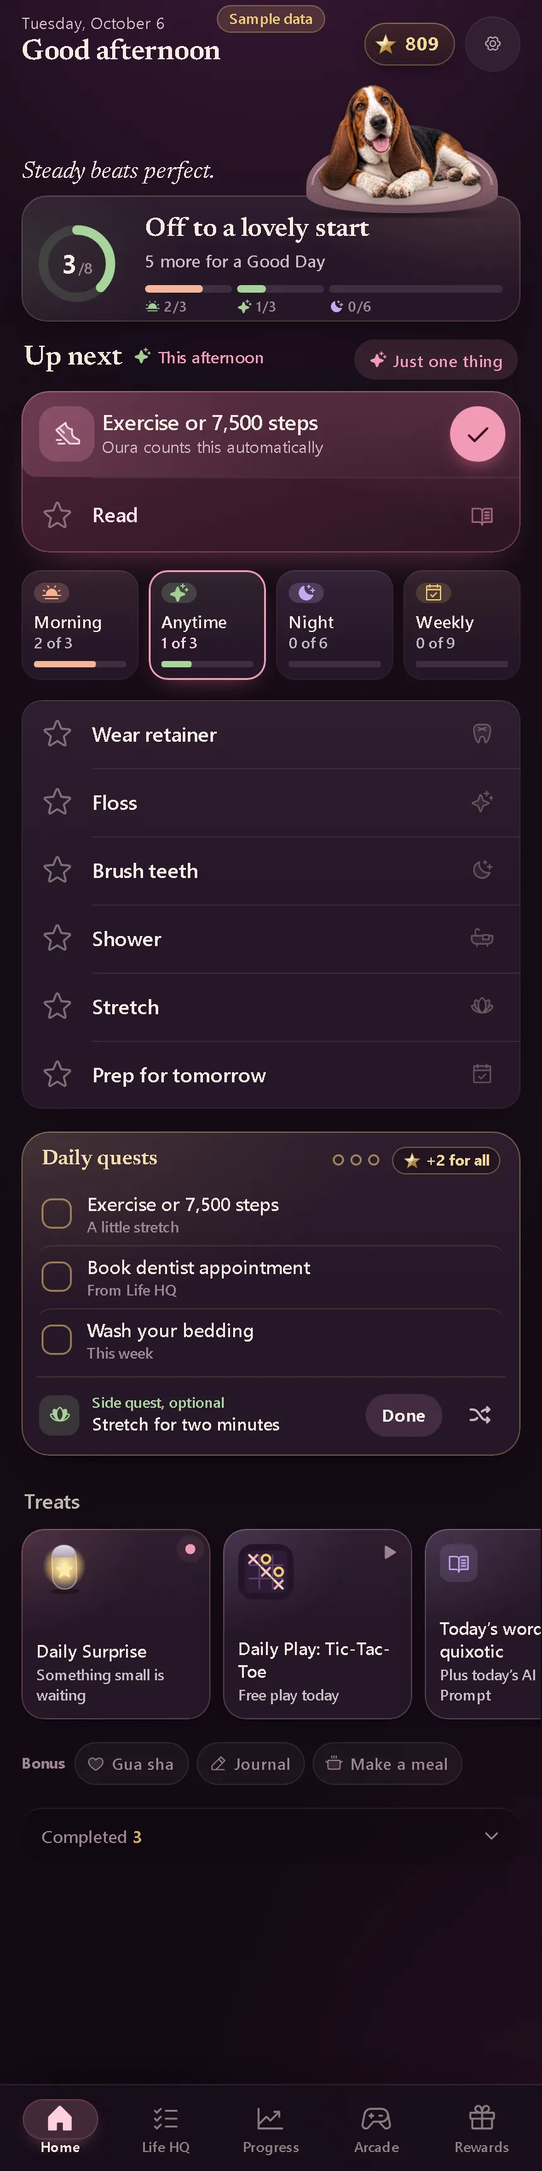
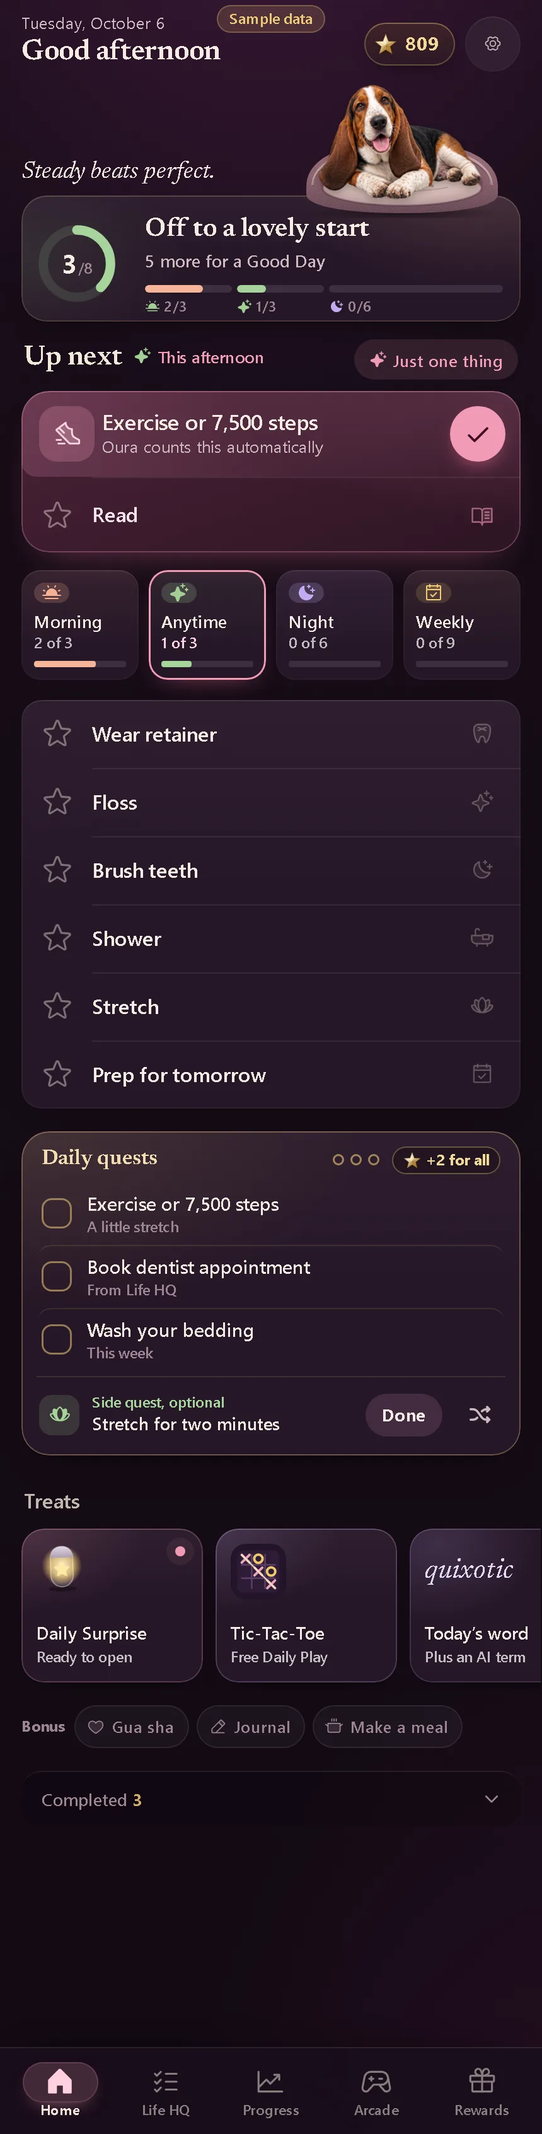
Demo snapshot from starcade@c075166

diff --git a/index.html b/index.html
@@ -8081,6 +8081,36 @@ html.ds-shell #nav .ds-tab span{transition:color .2s}
 #boost .ln-ai{background:rgb(255 255 255 / .018)!important;background-image:none!important;box-shadow:inset 0 0 0 1px rgb(var(--ds-lav-rgb) / .16)!important;padding:13px 16px 14px!important}
 #boost .ln-ai :is(h3,.ln-ai-term,b.ln-term){font-size:19px!important}
 #stats .pg-next-medal use[href="#ds-i-star-fill"]{--st-glint:1}
+
+/* ============ Pass 65: the treats shelf. One anatomy for every treat ============
+   A 48px art zone on top (the object), then one line of title and one line of status, in a fixed 122px card, so no
+   card is hollow because a neighbour is wordy. The only corner mark is the rose "ready" dot; carets and play
+   triangles are gone (the whole card is the button). Price chips and "x to go" stay: they're information. */
+#today .td-rail{align-items:flex-start!important}
+#today .td-rail .td-foryou>.tb-row,#today .td-rail .td-foryou>.td-surprise,#today .td-treat{width:144px!important;height:122px!important;min-height:0!important;padding:12px 12px 11px!important;justify-content:flex-start!important;gap:0!important}
+/* the art zone */
+#today .td-rail .td-foryou :is(.ds-glyph,.td-cover,.sp-art,.tr-wordart),#today .td-treat :is(.tr-ic,.tr-mini){flex:none;margin:0 0 auto 0!important}
+#today .td-rail .td-foryou .ds-glyph,#today .td-treat .tr-ic{width:44px!important;height:44px!important;border-radius:13px!important}
+#today .td-rail .td-foryou .ds-glyph .ds-ic,#today .td-treat .tr-ic .ds-ic{width:22px!important;height:22px!important}
+#today .td-rail .td-foryou .td-cover{width:44px!important;height:44px!important;border-radius:12px!important}
+#today .td-rail .td-foryou .td-surprise .sp-art{width:48px!important;height:48px!important;margin:-4px 0 auto -4px!important}
+#today .td-treat.tr-bingo .tr-mini{zoom:.66;margin:2px 0 auto 2px!important}
+/* the word is its own object: set in the display serif on a lavender-tinted card */
+#today .td-rail .tr-wordart{display:block;max-width:100%;height:44px;font:italic 500 22px/44px var(--sc-display);color:#E4DAFA;letter-spacing:.005em;white-space:nowrap;overflow:hidden;text-overflow:ellipsis}
+#today .td-rail .td-foryou>.tr-word{background:radial-gradient(90% 80% at 15% 10%,rgb(var(--ds-lav-rgb) / .16),transparent 62%),var(--ds-surface)!important;box-shadow:var(--ds-hi),inset 0 0 0 1px rgb(var(--ds-lav-rgb) / .14),var(--ds-card-shadow)!important}
+/* one line of title, one line of status */
+#today .td-rail .td-foryou .ds-row-main{gap:1px!important}
+#today .td-rail .td-foryou .ds-row-title,#today .td-treat b{display:block;max-width:100%;white-space:nowrap!important;overflow:hidden;text-overflow:ellipsis;font:600 14px/1.3 var(--ds-font)!important}
+#today .td-rail .td-foryou .ds-row-sub,#today .td-treat small{display:block;max-width:100%;white-space:nowrap!important;overflow:hidden;text-overflow:ellipsis;font:500 12px/1.35 var(--ds-font)!important}
+#today .td-rail .td-foryou .td-meter{margin-top:6px!important}
+/* corner marks: only the ready dot */
+#today .td-rail .td-foryou .tb-caret{display:none!important}
+#today .td-rail .td-foryou .sp-dot{top:14px!important;right:14px!important}
+/* "You're all set" contradicts a shelf that still has treats (Bingo, tokens) and was squeezed into a narrow column;
+   it shows only when the shelf is truly empty, as one full-width quiet line */
+#today .td-rail .td-allset{display:none}
+#today .td-rail:not(:has(.td-treat,.tb-row)) .td-allset{display:block;flex:1 0 100%;align-self:flex-start;white-space:normal;margin:2px 0 0}
+#today .td-rail .tr-wordart.is-long{font-size:18.5px}
 </style>
 <script id="starcade-screens">
 /* Starcade screens, pass 10: Today and Arcade (Play + Learn), built from the starcade-ds components.
@@ -9843,7 +9873,7 @@ html.ds-shell #nav .ds-tab span{transition:color .2s}
   function surpriseRow() {
     if (!surpriseReady()) return '';
     const o = surpriseObjectFor(today());
-    return `<button type="button" class="ds-row tb-row td-surprise sp-${o}" onclick="tdSurpriseOpen()" aria-label="Daily Surprise. Tap to open."><span class="sp-art">${SURPRISE_OBJECTS[o]()}</span><span class="ds-row-main"><span class="ds-row-title">Daily Surprise</span><span class="ds-row-sub">Something small is waiting</span></span><span class="sp-dot" aria-hidden="true"></span></button>`;
+    return `<button type="button" class="ds-row tb-row td-surprise sp-${o}" onclick="tdSurpriseOpen()" aria-label="Daily Surprise. Tap to open."><span class="sp-art">${SURPRISE_OBJECTS[o]()}</span><span class="ds-row-main"><span class="ds-row-title">Daily Surprise</span><span class="ds-row-sub">Ready to open</span></span><span class="sp-dot" aria-hidden="true"></span></button>`;
   }
   window.tdSurpriseOpen = function () {
     if (!surpriseReady()) return;
@@ -9990,7 +10020,7 @@ html.ds-shell #nav .ds-tab span{transition:color .2s}
     const row = (glyph, title, sub, onclick, end = ic('caret-right-bold', 'tb-caret'), extra = '') => `<button type="button" class="ds-row tb-row ${extra}" onclick="${onclick}">${glyph}<span class="ds-row-main"><span class="ds-row-title">${title}</span>${sub}</span>${end}</button>`;
     const subline = t => `<span class="ds-row-sub">${t}</span>`;
     add(surpriseRow());
-    try { const d = dailyPick(); if (!dailyClaimed()) add(row(`<span class="td-cover">${cover(d)}</span>`, `Daily Play: ${esc(d.name)}`, subline('Free play today'), `arPlay('${d.id}',true)`, ic('play-fill', 'tb-caret'))); } catch (e) {}
+    try { const d = dailyPick(); if (!dailyClaimed()) add(row(`<span class="td-cover">${cover(d)}</span>`, esc(d.name), subline('Free Daily Play'), `arPlay('${d.id}',true)`, '', 'tr-play')); } catch (e) {}
     let bal = 0, tgt = null, rs = [];
     try { bal = balance(); rs = state.rewards.filter(r => !r.retired && r.cost > 0).sort((a, b) => a.cost - b.cost); tgt = window.__starcadeRewardTarget ? window.__starcadeRewardTarget() : null; } catch (e) {}
     // the reward she chose to save toward: ready, or how far
@@ -10002,7 +10032,8 @@ html.ds-shell #nav .ds-tab span{transition:color .2s}
     } catch (e) {}
     try { // today's Learn, until the Daily Word is checked
       if (!((SC().wordDone || {})[today()])) { const w = wordForToday(), t = typeof aiTermForToday === 'function' ? aiTermForToday() : null;
-        add(row(`<span class="ds-glyph ds-glyph-lav">${ic('book-open-text-duotone')}</span>`, `Today’s word: ${esc(w.w)}`, subline(t ? `Plus today’s AI term: ${esc(t.w)}` : 'Learn · about a minute'), "starcadeNavigate('boost');setTimeout(()=>arTabSet('learn'),40)")); }
+        // pass 65: the word itself, set in the display serif, is the treat's object (not a generic book icon)
+        add(row(`<span class="tr-wordart${w.w.length > 11 ? ' is-long' : ''}" aria-hidden="true">${esc(w.w)}</span>`, 'Today’s word', subline(t ? 'Plus an AI term' : 'About a minute'), "starcadeNavigate('boost');setTimeout(()=>arTabSet('learn'),40)", '', 'tr-word')); }
     } catch (e) {}
     try { // runs this week, only once runs are part of her history
       const hist = typeof v8RunHistory === 'function' ? v8RunHistory() : [], wk = typeof fitnessWeek === 'function' ? fitnessWeek().length : 0;
@@ -11633,7 +11664,12 @@ html.ds-shell #nav .ds-tab span{transition:color .2s}
       const mini = `<span class="tr-mini" aria-hidden="true">${B.marks.map((m, i) => `<i class="${i === 12 ? 'free' : m.done ? 'on' : ''}${i === rec.gold ? ' gold' : ''}"></i>`).join('')}</span>`;
       extra.push(`<button type="button" class="td-treat tr-bingo" onclick="v7OpenBingo()">${mini}<b>Weekly Bingo</b><small>${B.count} of 25${n ? `, ${n} line${n === 1 ? '' : 's'}` : ''}</small></button>`);
     } catch (e) {}
-    if (SC2.tokensOn()) { const t = SC2.tokenBalance(); extra.push(`<button type="button" class="td-treat tr-tokens" onclick="starcadeNavigate('boost')"><span class="tr-ic">${ic('ticket-fill')}</span><b>${t} Arcade token${t === 1 ? '' : 's'}</b><small>${esc(SC2.nextTokenHint().replace(/\.$/, ''))}</small></button>`); }
+    if (SC2.tokensOn()) {
+      // pass 65: one line of status ("3 more habits today earns a token" becomes "Next in 3 habits")
+      const t = SC2.tokenBalance(), hint = SC2.nextTokenHint(), m = /^(\d+) more habit/.exec(hint);
+      const sub = m ? `Next in ${m[1]} habit${m[1] === '1' ? '' : 's'}` : 'A Good Day adds one';
+      extra.push(`<button type="button" class="td-treat tr-tokens" onclick="starcadeNavigate('boost')" aria-label="${t} Arcade token${t === 1 ? '' : 's'}. ${esc(hint)}"><span class="tr-ic">${ic('ticket-fill')}</span><b>${t} token${t === 1 ? '' : 's'}</b><small>${esc(sub)}</small></button>`);
+    }
     const inner = fy.replace(/<div class="ds-section td-sec">[\s\S]*?<\/div>/, ''); // the old header (title + Inbox link) is replaced by the rail's own
     return `<div class="ds-section td-sec"><span>Treats</span></div><div class="td-rail">${inner}${extra.join('')}</div>`;
   }

diff --git a/review/index.html b/review/index.html
@@ -4,7 +4,7 @@ ul.grid{list-style:none;padding:0;display:grid;grid-template-columns:repeat(auto
 ul.grid img{display:block;width:100%;height:auto;aspect-ratio:430/932;object-fit:cover;object-position:top;border-radius:10px;background:#261727}
 figure{margin:0}figure img{display:block;max-width:430px;width:100%;height:auto;border-radius:12px;background:#261727}pre{white-space:pre-wrap;background:#261727;padding:12px 14px;border-radius:10px;color:#CFB9C1;font:14px/1.45 system-ui,sans-serif}
 nav.pn{display:flex;justify-content:space-between;gap:12px;margin:14px 0}dl{display:grid;grid-template-columns:max-content 1fr;gap:4px 14px;margin:0 0 16px;color:#CFB9C1}dt{color:#9C8492}</style></head><body><main><h1>Starcade demo · visual review</h1>
-<p class="meta">Read-only, pre-rendered snapshots of every major screen and state of Starcade, generated automatically from the live demo build with sample data only (no real user data). Viewport 430×932 (large iPhone), device scale 2. 65 screens and states. Generated 2026-10-07 02:44 UTC. This page needs no JavaScript. The interactive demo itself is at <a href="../">the demo home</a>.</p>
+<p class="meta">Read-only, pre-rendered snapshots of every major screen and state of Starcade, generated automatically from the live demo build with sample data only (no real user data). Viewport 430×932 (large iPhone), device scale 2. 65 screens and states. Generated 2026-10-07 03:37 UTC. This page needs no JavaScript. The interactive demo itself is at <a href="../">the demo home</a>.</p>
 <p>Overview of everything at once: <a href="img/00-contact-sheet.webp">contact sheet image</a>.</p>
 <p><img src="img/00-contact-sheet.webp" alt="Contact sheet: the first screen of all 65 Starcade screens and states side by side" style="max-width:100%;height:auto;border-radius:10px"></p>
 <h2>Home</h2><ul class="grid"><li><a href="01-home.html"><img src="img/01-home.webp" alt="Home · Today (afternoon, Dexter relaxed in his bed)" loading="lazy" width="430" height="932"><span>Home · Today (afternoon, Dexter relaxed in his bed)</span></a></li><li><a href="02-home-routine-pill-open.html"><img src="img/02-home-routine-pill-open.webp" alt="Home · a routine pill opened in place (Night)" loading="lazy" width="430" height="932"><span>Home · a routine pill opened in place (Night)</span></a></li><li><a href="03-home-week-pill-open.html"><img src="img/03-home-week-pill-open.webp" alt="Home · This week pill opened (weekly reset)" loading="lazy" width="430" height="932"><span>Home · This week pill opened (weekly reset)</span></a></li><li><a href="04-home-completed-expanded.html"><img src="img/04-home-completed-expanded.webp" alt="Home · Completed habits expanded" loading="lazy" width="430" height="932"><span>Home · Completed habits expanded</span></a></li><li><a href="05-home-quick-actions.html"><img src="img/05-home-quick-actions.webp" alt="Home · press and hold a habit: quick actions (skip, rest, partly, note)" loading="lazy" width="430" height="932"><span>Home · press and hold a habit: quick actions (skip, rest, partly, note)</span></a></li><li><a href="06-home-just-one-thing.html"><img src="img/06-home-just-one-thing.webp" alt="Home · Just one thing (pick for me)" loading="lazy" width="430" height="932"><span>Home · Just one thing (pick for me)</span></a></li><li><a href="07-daily-surprise-closed.html"><img src="img/07-daily-surprise-closed.webp" alt="Daily Surprise · the gift before opening" loading="lazy" width="430" height="932"><span>Daily Surprise · the gift before opening</span></a></li><li><a href="08-daily-surprise-opened.html"><img src="img/08-daily-surprise-opened.webp" alt="Daily Surprise · revealed" loading="lazy" width="430" height="932"><span>Daily Surprise · revealed</span></a></li></ul>

diff --git a/review/02-home-routine-pill-open.html b/review/02-home-routine-pill-open.html
@@ -4,9 +4,9 @@ ul.grid{list-style:none;padding:0;display:grid;grid-template-columns:repeat(auto
 ul.grid img{display:block;width:100%;height:auto;aspect-ratio:430/932;object-fit:cover;object-position:top;border-radius:10px;background:#261727}
 figure{margin:0}figure img{display:block;max-width:430px;width:100%;height:auto;border-radius:12px;background:#261727}pre{white-space:pre-wrap;background:#261727;padding:12px 14px;border-radius:10px;color:#CFB9C1;font:14px/1.45 system-ui,sans-serif}
 nav.pn{display:flex;justify-content:space-between;gap:12px;margin:14px 0}dl{display:grid;grid-template-columns:max-content 1fr;gap:4px 14px;margin:0 0 16px;color:#CFB9C1}dt{color:#9C8492}</style></head><body><main><p><a href="index.html">← All screens</a></p><h1>Home · a routine pill opened in place (Night)</h1>
-<dl><dt>Area</dt><dd>Home</dd><dt>Screen 2 of 65</dt><dd>home-routine-pill-open</dd><dt>Capture</dt><dd>full scrolling page (430×1721), demo time 15:00, sample data</dd><dt>Image</dt><dd><a href="img/02-home-routine-pill-open.webp">img/02-home-routine-pill-open.webp</a></dd></dl>
+<dl><dt>Area</dt><dd>Home</dd><dt>Screen 2 of 65</dt><dd>home-routine-pill-open</dd><dt>Capture</dt><dd>full scrolling page (430×1692), demo time 15:00, sample data</dd><dt>Image</dt><dd><a href="img/02-home-routine-pill-open.webp">img/02-home-routine-pill-open.webp</a></dd></dl>
 <nav class="pn"><a href="01-home.html">← Home · Today (afternoon, Dexter relaxed in his bed)</a><a href="03-home-week-pill-open.html">Home · This week pill opened (weekly reset) →</a></nav>
-<figure><img src="img/02-home-routine-pill-open.webp" alt="Screenshot: Home · a routine pill opened in place (Night)" width="430" height="1721"><figcaption class="meta">Home · a routine pill opened in place (Night)</figcaption></figure>
+<figure><img src="img/02-home-routine-pill-open.webp" alt="Screenshot: Home · a routine pill opened in place (Night)" width="430" height="1692"><figcaption class="meta">Home · a routine pill opened in place (Night)</figcaption></figure>
 <h2>Text on this screen</h2><pre>Good afternoon
 Steady beats perfect.
 
@@ -52,15 +52,16 @@ Stretch for two minutes
 Done
 Treats
 Daily Surprise
-Something small is waiting
-Daily Play: Tic-Tac-Toe
-Free play today
-Today’s word: quixotic
-Plus today’s AI term: Prompt
+Ready to open
+Tic-Tac-Toe
+Free Daily Play
+quixotic
+Today’s word
+Plus an AI term
 Weekly Bingo
 3 of 25
-6 Arcade tokens
-3 more habits today earns a token
+6 tokens
+Next in 3 habits
 Bonus
 Gua sha
 Journal

diff --git a/review/04-home-completed-expanded.html b/review/04-home-completed-expanded.html
@@ -4,9 +4,9 @@ ul.grid{list-style:none;padding:0;display:grid;grid-template-columns:repeat(auto
 ul.grid img{display:block;width:100%;height:auto;aspect-ratio:430/932;object-fit:cover;object-position:top;border-radius:10px;background:#261727}
 figure{margin:0}figure img{display:block;max-width:430px;width:100%;height:auto;border-radius:12px;background:#261727}pre{white-space:pre-wrap;background:#261727;padding:12px 14px;border-radius:10px;color:#CFB9C1;font:14px/1.45 system-ui,sans-serif}
 nav.pn{display:flex;justify-content:space-between;gap:12px;margin:14px 0}dl{display:grid;grid-template-columns:max-content 1fr;gap:4px 14px;margin:0 0 16px;color:#CFB9C1}dt{color:#9C8492}</style></head><body><main><p><a href="index.html">← All screens</a></p><h1>Home · Completed habits expanded</h1>
-<dl><dt>Area</dt><dd>Home</dd><dt>Screen 4 of 65</dt><dd>home-completed-expanded</dd><dt>Capture</dt><dd>full scrolling page (430×1505), demo time 15:00, sample data</dd><dt>Image</dt><dd><a href="img/04-home-completed-expanded.webp">img/04-home-completed-expanded.webp</a></dd></dl>
+<dl><dt>Area</dt><dd>Home</dd><dt>Screen 4 of 65</dt><dd>home-completed-expanded</dd><dt>Capture</dt><dd>full scrolling page (430×1476), demo time 15:00, sample data</dd><dt>Image</dt><dd><a href="img/04-home-completed-expanded.webp">img/04-home-completed-expanded.webp</a></dd></dl>
 <nav class="pn"><a href="03-home-week-pill-open.html">← Home · This week pill opened (weekly reset)</a><a href="05-home-quick-actions.html">Home · press and hold a habit: quick actions (skip, rest, partly, note) →</a></nav>
-<figure><img src="img/04-home-completed-expanded.webp" alt="Screenshot: Home · Completed habits expanded" width="430" height="1505"><figcaption class="meta">Home · Completed habits expanded</figcaption></figure>
+<figure><img src="img/04-home-completed-expanded.webp" alt="Screenshot: Home · Completed habits expanded" width="430" height="1476"><figcaption class="meta">Home · Completed habits expanded</figcaption></figure>
 <h2>Text on this screen</h2><pre>Good afternoon
 Steady beats perfect.
 
@@ -46,15 +46,16 @@ Stretch for two minutes
 Done
 Treats
 Daily Surprise
-Something small is waiting
-Daily Play: Tic-Tac-Toe
-Free play today
-Today’s word: quixotic
-Plus today’s AI term: Prompt
+Ready to open
+Tic-Tac-Toe
+Free Daily Play
+quixotic
+Today’s word
+Plus an AI term
 Weekly Bingo
 3 of 25
-6 Arcade tokens
-3 more habits today earns a token
+6 tokens
+Next in 3 habits
 Bonus
 Gua sha
 Journal

diff --git a/review/03-home-week-pill-open.html b/review/03-home-week-pill-open.html
@@ -4,9 +4,9 @@ ul.grid{list-style:none;padding:0;display:grid;grid-template-columns:repeat(auto
 ul.grid img{display:block;width:100%;height:auto;aspect-ratio:430/932;object-fit:cover;object-position:top;border-radius:10px;background:#261727}
 figure{margin:0}figure img{display:block;max-width:430px;width:100%;height:auto;border-radius:12px;background:#261727}pre{white-space:pre-wrap;background:#261727;padding:12px 14px;border-radius:10px;color:#CFB9C1;font:14px/1.45 system-ui,sans-serif}
 nav.pn{display:flex;justify-content:space-between;gap:12px;margin:14px 0}dl{display:grid;grid-template-columns:max-content 1fr;gap:4px 14px;margin:0 0 16px;color:#CFB9C1}dt{color:#9C8492}</style></head><body><main><p><a href="index.html">← All screens</a></p><h1>Home · This week pill opened (weekly reset)</h1>
-<dl><dt>Area</dt><dd>Home</dd><dt>Screen 3 of 65</dt><dd>home-week-pill-open</dd><dt>Capture</dt><dd>full scrolling page (430×1883), demo time 15:00, sample data</dd><dt>Image</dt><dd><a href="img/03-home-week-pill-open.webp">img/03-home-week-pill-open.webp</a></dd></dl>
+<dl><dt>Area</dt><dd>Home</dd><dt>Screen 3 of 65</dt><dd>home-week-pill-open</dd><dt>Capture</dt><dd>full scrolling page (430×1854), demo time 15:00, sample data</dd><dt>Image</dt><dd><a href="img/03-home-week-pill-open.webp">img/03-home-week-pill-open.webp</a></dd></dl>
 <nav class="pn"><a href="02-home-routine-pill-open.html">← Home · a routine pill opened in place (Night)</a><a href="04-home-completed-expanded.html">Home · Completed habits expanded →</a></nav>
-<figure><img src="img/03-home-week-pill-open.webp" alt="Screenshot: Home · This week pill opened (weekly reset)" width="430" height="1883"><figcaption class="meta">Home · This week pill opened (weekly reset)</figcaption></figure>
+<figure><img src="img/03-home-week-pill-open.webp" alt="Screenshot: Home · This week pill opened (weekly reset)" width="430" height="1854"><figcaption class="meta">Home · This week pill opened (weekly reset)</figcaption></figure>
 <h2>Text on this screen</h2><pre>Good afternoon
 Steady beats perfect.
 
@@ -57,15 +57,16 @@ Stretch for two minutes
 Done
 Treats
 Daily Surprise
-Something small is waiting
-Daily Play: Tic-Tac-Toe
-Free play today
-Today’s word: quixotic
-Plus today’s AI term: Prompt
+Ready to open
+Tic-Tac-Toe
+Free Daily Play
+quixotic
+Today’s word
+Plus an AI term
 Weekly Bingo
 3 of 25
-6 Arcade tokens
-3 more habits today earns a token
+6 tokens
+Next in 3 habits
 Bonus
 Gua sha
 Journal

diff --git a/review/15-home-good-day.html b/review/15-home-good-day.html
@@ -4,9 +4,9 @@ ul.grid{list-style:none;padding:0;display:grid;grid-template-columns:repeat(auto
 ul.grid img{display:block;width:100%;height:auto;aspect-ratio:430/932;object-fit:cover;object-position:top;border-radius:10px;background:#261727}
 figure{margin:0}figure img{display:block;max-width:430px;width:100%;height:auto;border-radius:12px;background:#261727}pre{white-space:pre-wrap;background:#261727;padding:12px 14px;border-radius:10px;color:#CFB9C1;font:14px/1.45 system-ui,sans-serif}
 nav.pn{display:flex;justify-content:space-between;gap:12px;margin:14px 0}dl{display:grid;grid-template-columns:max-content 1fr;gap:4px 14px;margin:0 0 16px;color:#CFB9C1}dt{color:#9C8492}</style></head><body><main><p><a href="index.html">← All screens</a></p><h1>Home · Good Day achieved (starlit card)</h1>
-<dl><dt>Area</dt><dd>Good Day</dd><dt>Screen 15 of 65</dt><dd>home-good-day</dd><dt>Capture</dt><dd>full scrolling page (430×1319), demo time 16:00, sample data</dd><dt>Image</dt><dd><a href="img/15-home-good-day.webp">img/15-home-good-day.webp</a></dd></dl>
+<dl><dt>Area</dt><dd>Good Day</dd><dt>Screen 15 of 65</dt><dd>home-good-day</dd><dt>Capture</dt><dd>full scrolling page (430×1290), demo time 16:00, sample data</dd><dt>Image</dt><dd><a href="img/15-home-good-day.webp">img/15-home-good-day.webp</a></dd></dl>
 <nav class="pn"><a href="14-good-day-celebration.html">← Good Day · the celebration moment as the 8th core habit is checked</a><a href="16-progress-goals-empty.html">Progress · Goals (empty state) →</a></nav>
-<figure><img src="img/15-home-good-day.webp" alt="Screenshot: Home · Good Day achieved (starlit card)" width="430" height="1319"><figcaption class="meta">Home · Good Day achieved (starlit card)</figcaption></figure>
+<figure><img src="img/15-home-good-day.webp" alt="Screenshot: Home · Good Day achieved (starlit card)" width="430" height="1290"><figcaption class="meta">Home · Good Day achieved (starlit card)</figcaption></figure>
 <h2>Text on this screen</h2><pre>Good afternoon
 Steady beats perfect.
 
@@ -45,15 +45,16 @@ Stretch for two minutes
 Done
 Treats
 Daily Surprise
-Something small is waiting
-Daily Play: Tic-Tac-Toe
-Free play today
-Today’s word: quixotic
-Plus today’s AI term: Prompt
+Ready to open
+Tic-Tac-Toe
+Free Daily Play
+quixotic
+Today’s word
+Plus an AI term
 Weekly Bingo
 4 of 25
-8 Arcade tokens
-1 more habit today earns a token
+8 tokens
+Next in 1 habit
 Bonus
 Gua sha
 Journal

diff --git a/review/01-home.html b/review/01-home.html
@@ -4,9 +4,9 @@ ul.grid{list-style:none;padding:0;display:grid;grid-template-columns:repeat(auto
 ul.grid img{display:block;width:100%;height:auto;aspect-ratio:430/932;object-fit:cover;object-position:top;border-radius:10px;background:#261727}
 figure{margin:0}figure img{display:block;max-width:430px;width:100%;height:auto;border-radius:12px;background:#261727}pre{white-space:pre-wrap;background:#261727;padding:12px 14px;border-radius:10px;color:#CFB9C1;font:14px/1.45 system-ui,sans-serif}
 nav.pn{display:flex;justify-content:space-between;gap:12px;margin:14px 0}dl{display:grid;grid-template-columns:max-content 1fr;gap:4px 14px;margin:0 0 16px;color:#CFB9C1}dt{color:#9C8492}</style></head><body><main><p><a href="index.html">← All screens</a></p><h1>Home · Today (afternoon, Dexter relaxed in his bed)</h1>
-<dl><dt>Area</dt><dd>Home</dd><dt>Screen 1 of 65</dt><dd>home</dd><dt>Capture</dt><dd>full scrolling page (430×1379), demo time 15:00, sample data</dd><dt>Image</dt><dd><a href="img/01-home.webp">img/01-home.webp</a></dd></dl>
+<dl><dt>Area</dt><dd>Home</dd><dt>Screen 1 of 65</dt><dd>home</dd><dt>Capture</dt><dd>full scrolling page (430×1350), demo time 15:00, sample data</dd><dt>Image</dt><dd><a href="img/01-home.webp">img/01-home.webp</a></dd></dl>
 <nav class="pn"><span></span><a href="02-home-routine-pill-open.html">Home · a routine pill opened in place (Night) →</a></nav>
-<figure><img src="img/01-home.webp" alt="Screenshot: Home · Today (afternoon, Dexter relaxed in his bed)" width="430" height="1379"><figcaption class="meta">Home · Today (afternoon, Dexter relaxed in his bed)</figcaption></figure>
+<figure><img src="img/01-home.webp" alt="Screenshot: Home · Today (afternoon, Dexter relaxed in his bed)" width="430" height="1350"><figcaption class="meta">Home · Today (afternoon, Dexter relaxed in his bed)</figcaption></figure>
 <h2>Text on this screen</h2><pre>Good afternoon
 Steady beats perfect.
 
@@ -46,15 +46,16 @@ Stretch for two minutes
 Done
 Treats
 Daily Surprise
-Something small is waiting
-Daily Play: Tic-Tac-Toe
-Free play today
-Today’s word: quixotic
-Plus today’s AI term: Prompt
+Ready to open
+Tic-Tac-Toe
+Free Daily Play
+quixotic
+Today’s word
+Plus an AI term
 Weekly Bingo
 3 of 25
-6 Arcade tokens
-3 more habits today earns a token
+6 tokens
+Next in 3 habits
 Bonus
 Gua sha
 Journal

diff --git a/review/10-dexter-celebrate.html b/review/10-dexter-celebrate.html
@@ -46,15 +46,16 @@ Stretch for two minutes
 Done
 Treats
 Daily Surprise
-Something small is waiting
-Daily Play: Tic-Tac-Toe
-Free play today
-Today’s word: quixotic
-Plus today’s AI term: Prompt
+Ready to open
+Tic-Tac-Toe
+Free Daily Play
+quixotic
+Today’s word
+Plus an AI term
 Weekly Bingo
 3 of 25
-6 Arcade tokens
-3 more habits today earns a token
+6 tokens
+Next in 3 habits
 Bonus
 Gua sha
 Journal

diff --git a/review/11-home-morning.html b/review/11-home-morning.html
@@ -45,15 +45,16 @@ Stretch for two minutes
 Done
 Treats
 Daily Surprise
-Something small is waiting
-Daily Play: Tic-Tac-Toe
-Free play today
-Today’s word: quixotic
-Plus today’s AI term: Prompt
+Ready to open
+Tic-Tac-Toe
+Free Daily Play
+quixotic
+Today’s word
+Plus an AI term
 Weekly Bingo
 3 of 25
-6 Arcade tokens
-3 more habits today earns a token
+6 tokens
+Next in 3 habits
 Bonus
 Gua sha
 Journal

diff --git a/review/12-home-evening.html b/review/12-home-evening.html
@@ -48,15 +48,16 @@ Stretch for two minutes
 Done
 Treats
 Daily Surprise
-Something small is waiting
-Daily Play: Tic-Tac-Toe
-Free play today
-Today’s word: quixotic
-Plus today’s AI term: Prompt
+Ready to open
+Tic-Tac-Toe
+Free Daily Play
+quixotic
+Today’s word
+Plus an AI term
 Weekly Bingo
 3 of 25
-6 Arcade tokens
-3 more habits today earns a token
+6 tokens
+Next in 3 habits
 Bonus
 Gua sha
 Journal

diff --git a/review/13-home-night.html b/review/13-home-night.html
@@ -48,15 +48,16 @@ Stretch for two minutes
 Done
 Treats
 Daily Surprise
-Something small is waiting
-Daily Play: Tic-Tac-Toe
-Free play today
-Today’s word: quixotic
-Plus today’s AI term: Prompt
+Ready to open
+Tic-Tac-Toe
+Free Daily Play
+quixotic
+Today’s word
+Plus an AI term
 Weekly Bingo
 3 of 25
-6 Arcade tokens
-3 more habits today earns a token
+6 tokens
+Next in 3 habits
 Bonus
 Gua sha
 Journal

diff --git a/review/14-good-day-celebration.html b/review/14-good-day-celebration.html
@@ -45,15 +45,16 @@ Stretch for two minutes
 Done
 Treats
 Daily Surprise
-Something small is waiting
-Daily Play: Tic-Tac-Toe
-Free play today
-Today’s word: quixotic
-Plus today’s AI term: Prompt
+Ready to open
+Tic-Tac-Toe
+Free Daily Play
+quixotic
+Today’s word
+Plus an AI term
 Weekly Bingo
 4 of 25
-8 Arcade tokens
-1 more habit today earns a token
+8 tokens
+Next in 1 habit
 Bonus
 Gua sha
 Journal
